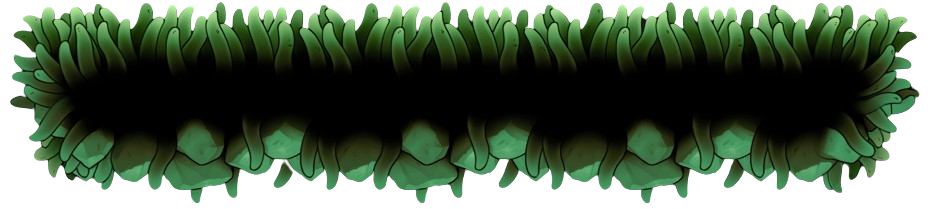
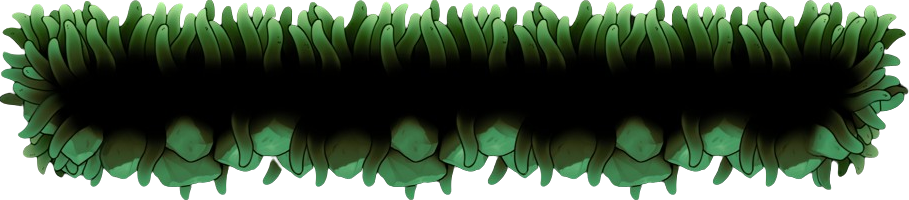
Adjust whitespace in images

Changed region(s): [[0.0, 0.0, 1.0, 1.0], [0.4312, 0.6, 0.462, 0.69]]

diff --git a/src/slime_fall/lib/Constants/configuration.dart b/src/slime_fall/lib/Constants/configuration.dart
@@ -1,14 +1,14 @@
 import 'package:flame/components.dart';
 
 class Config {
-  static Vector2 birdSize = Vector2(80, 80);
-  static Vector2 spikeSize = Vector2(30, 40);
+  static Vector2 slimeSize = Vector2(35, 20);
+  static Vector2 spikeSize = Vector2(25, 35);
 
   static const double scrollSpeed = 80.0;
   static const double backgroundScrollSpeed = 100.0;
   static const double platformHeight = 25.0;
   static const double platformInterval = 1.4;
-  static double platformSpacing = birdSize.x * 1.3;
+  static double platformSpacing = slimeSize.x * 1.3;
 
   // How fast the player moves down when not under a platform.
   static Vector2 velocity = Vector2(0, 500);

diff --git a/src/slime_fall/lib/Class Library/components/Slime.dart b/src/slime_fall/lib/Class Library/components/Slime.dart
@@ -17,7 +17,7 @@ class Slime extends SpriteGroupComponent<SlimeMovement>
     final Sprite slimeWalkRight = await gameRef.loadSprite(Assets.slimeWalkRight);
     final Sprite slimeInAir = await gameRef.loadSprite(Assets.slimeInAir);
 
-    size = Config.birdSize;
+    size = Config.slimeSize;
 
     // Assign the sprites to the group component.
     sprites =  {

diff --git a/src/slime_fall/lib/Class Library/components/spike.dart b/src/slime_fall/lib/Class Library/components/spike.dart
@@ -16,7 +16,7 @@ class Spike extends SpriteComponent with HasGameRef<SlimeFallGame> {
   @override
   Future<void> onLoad() async {
     size = Config.spikeSize;
-    position.y = positionY / 2;
+    position.y = positionY;
 
     switch (spikePosition) {
       case Position.left:

diff --git a/src/slime_fall/lib/Class Library/components/Platform.dart b/src/slime_fall/lib/Class Library/components/Platform.dart
@@ -39,7 +39,6 @@ class Platform extends SpriteComponent with HasGameRef<SlimeFallGame>  {
         break;
     }
 
-    final hitboxSize = Vector2(Config.platformHeight, 0);
     add(RectangleHitbox());
   }
 }
